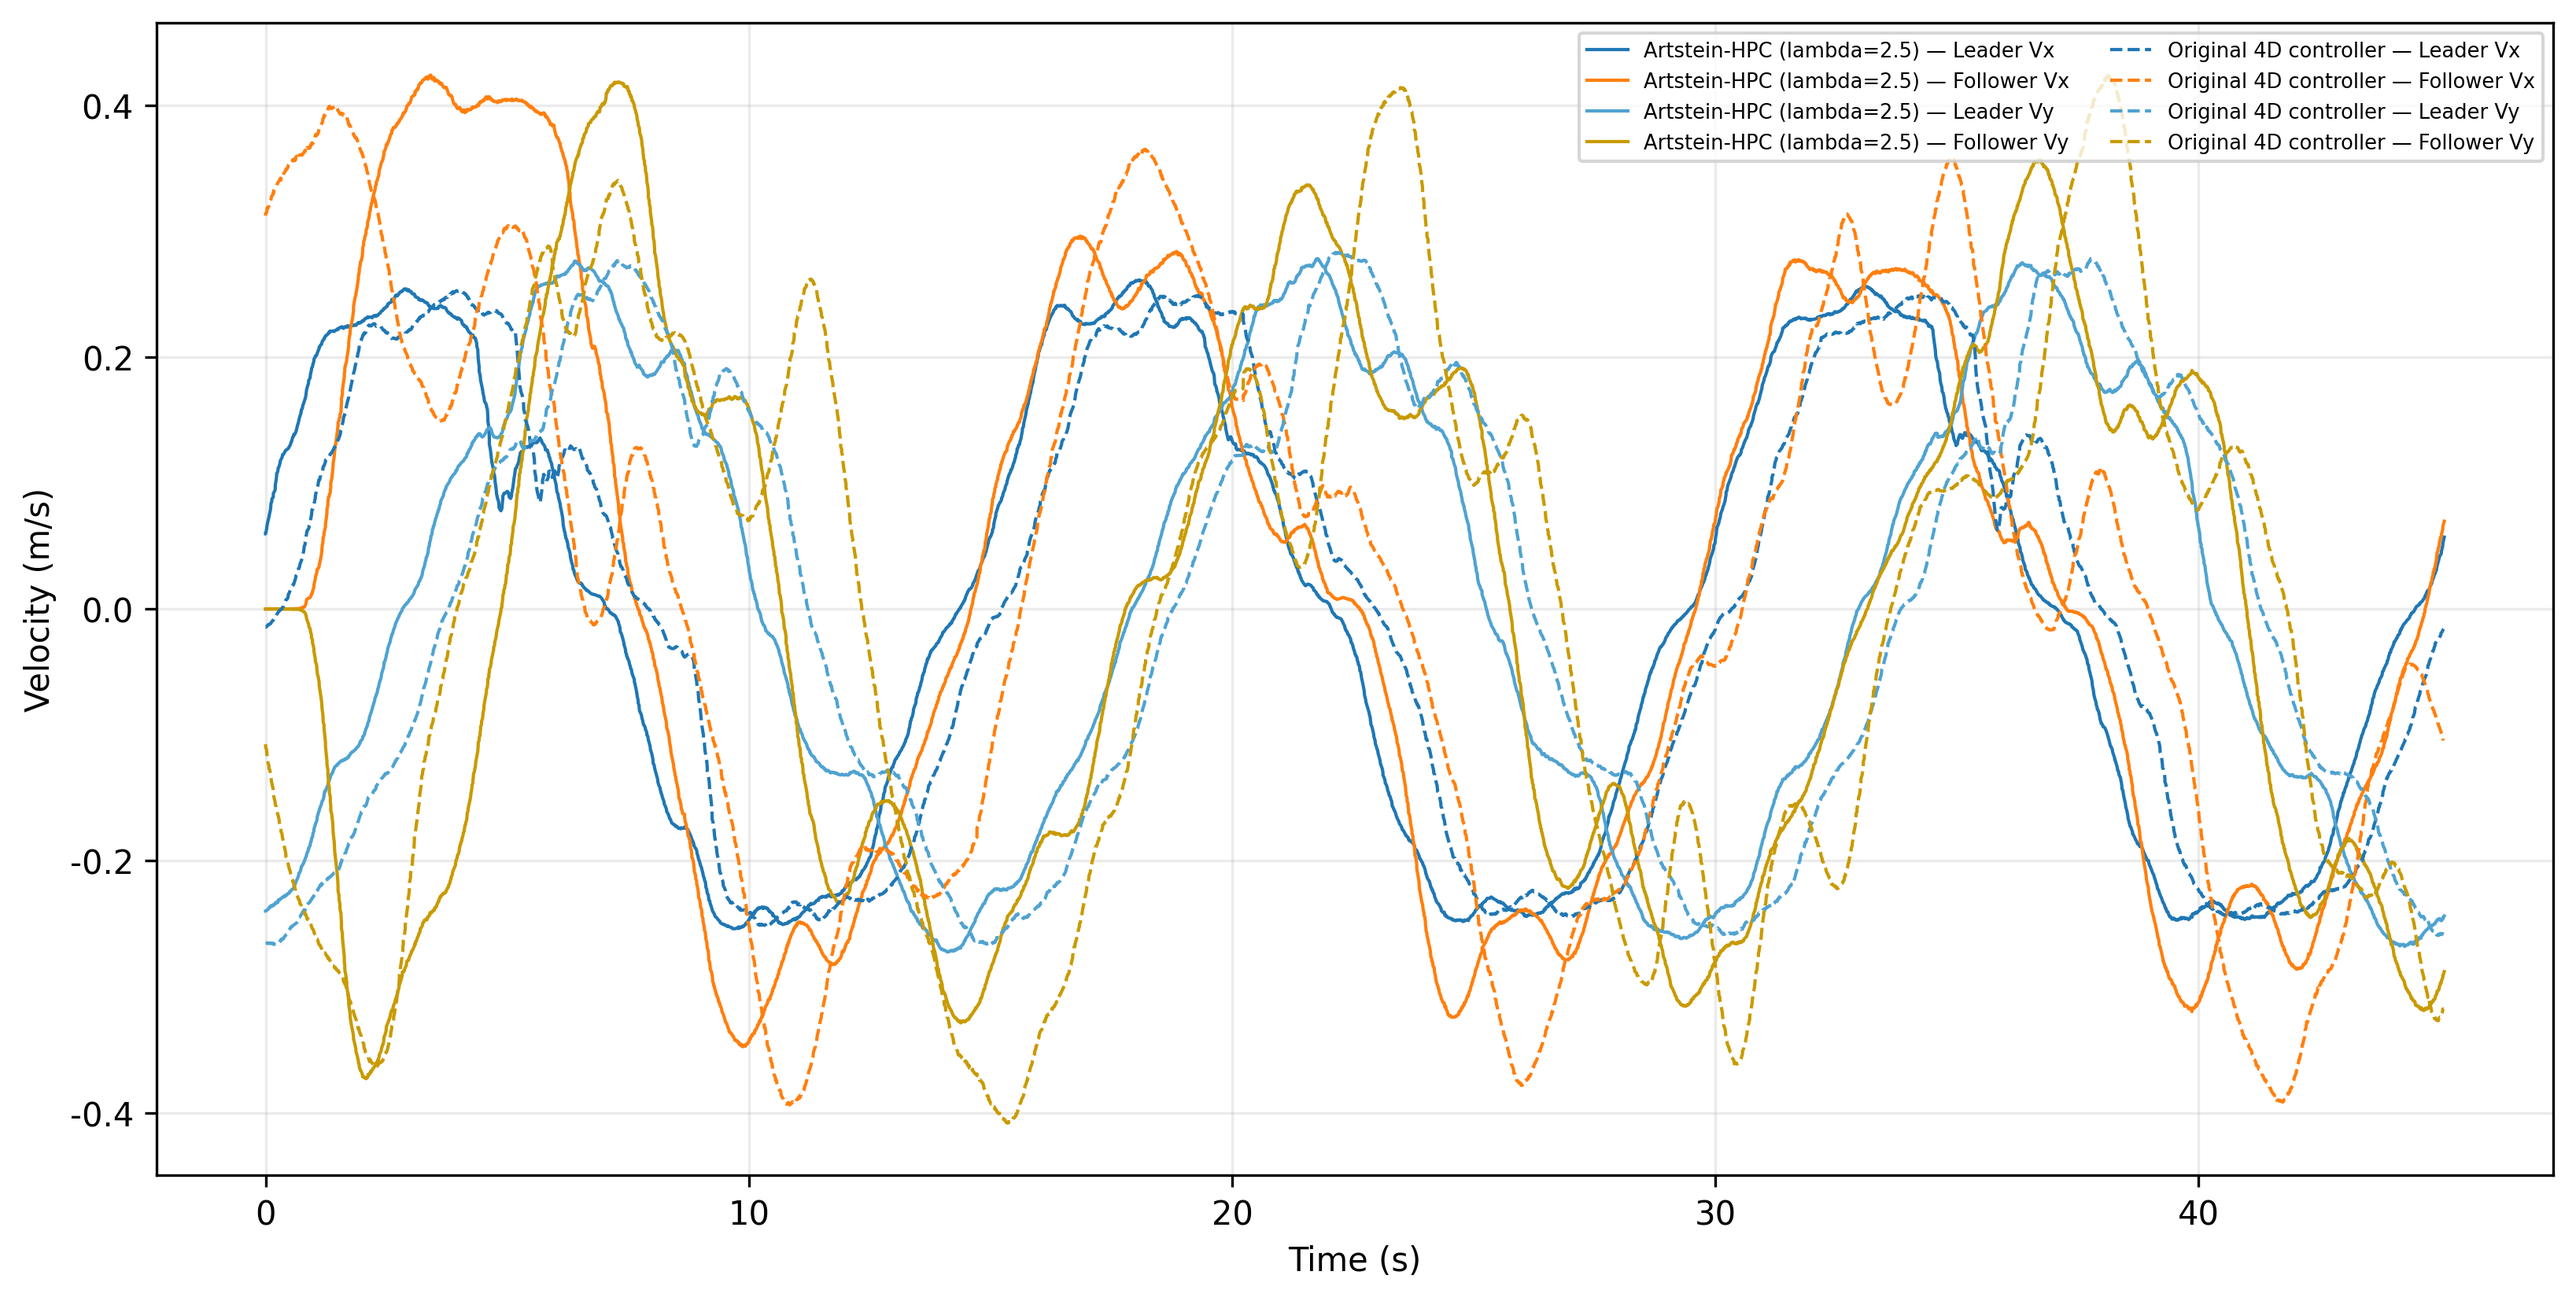
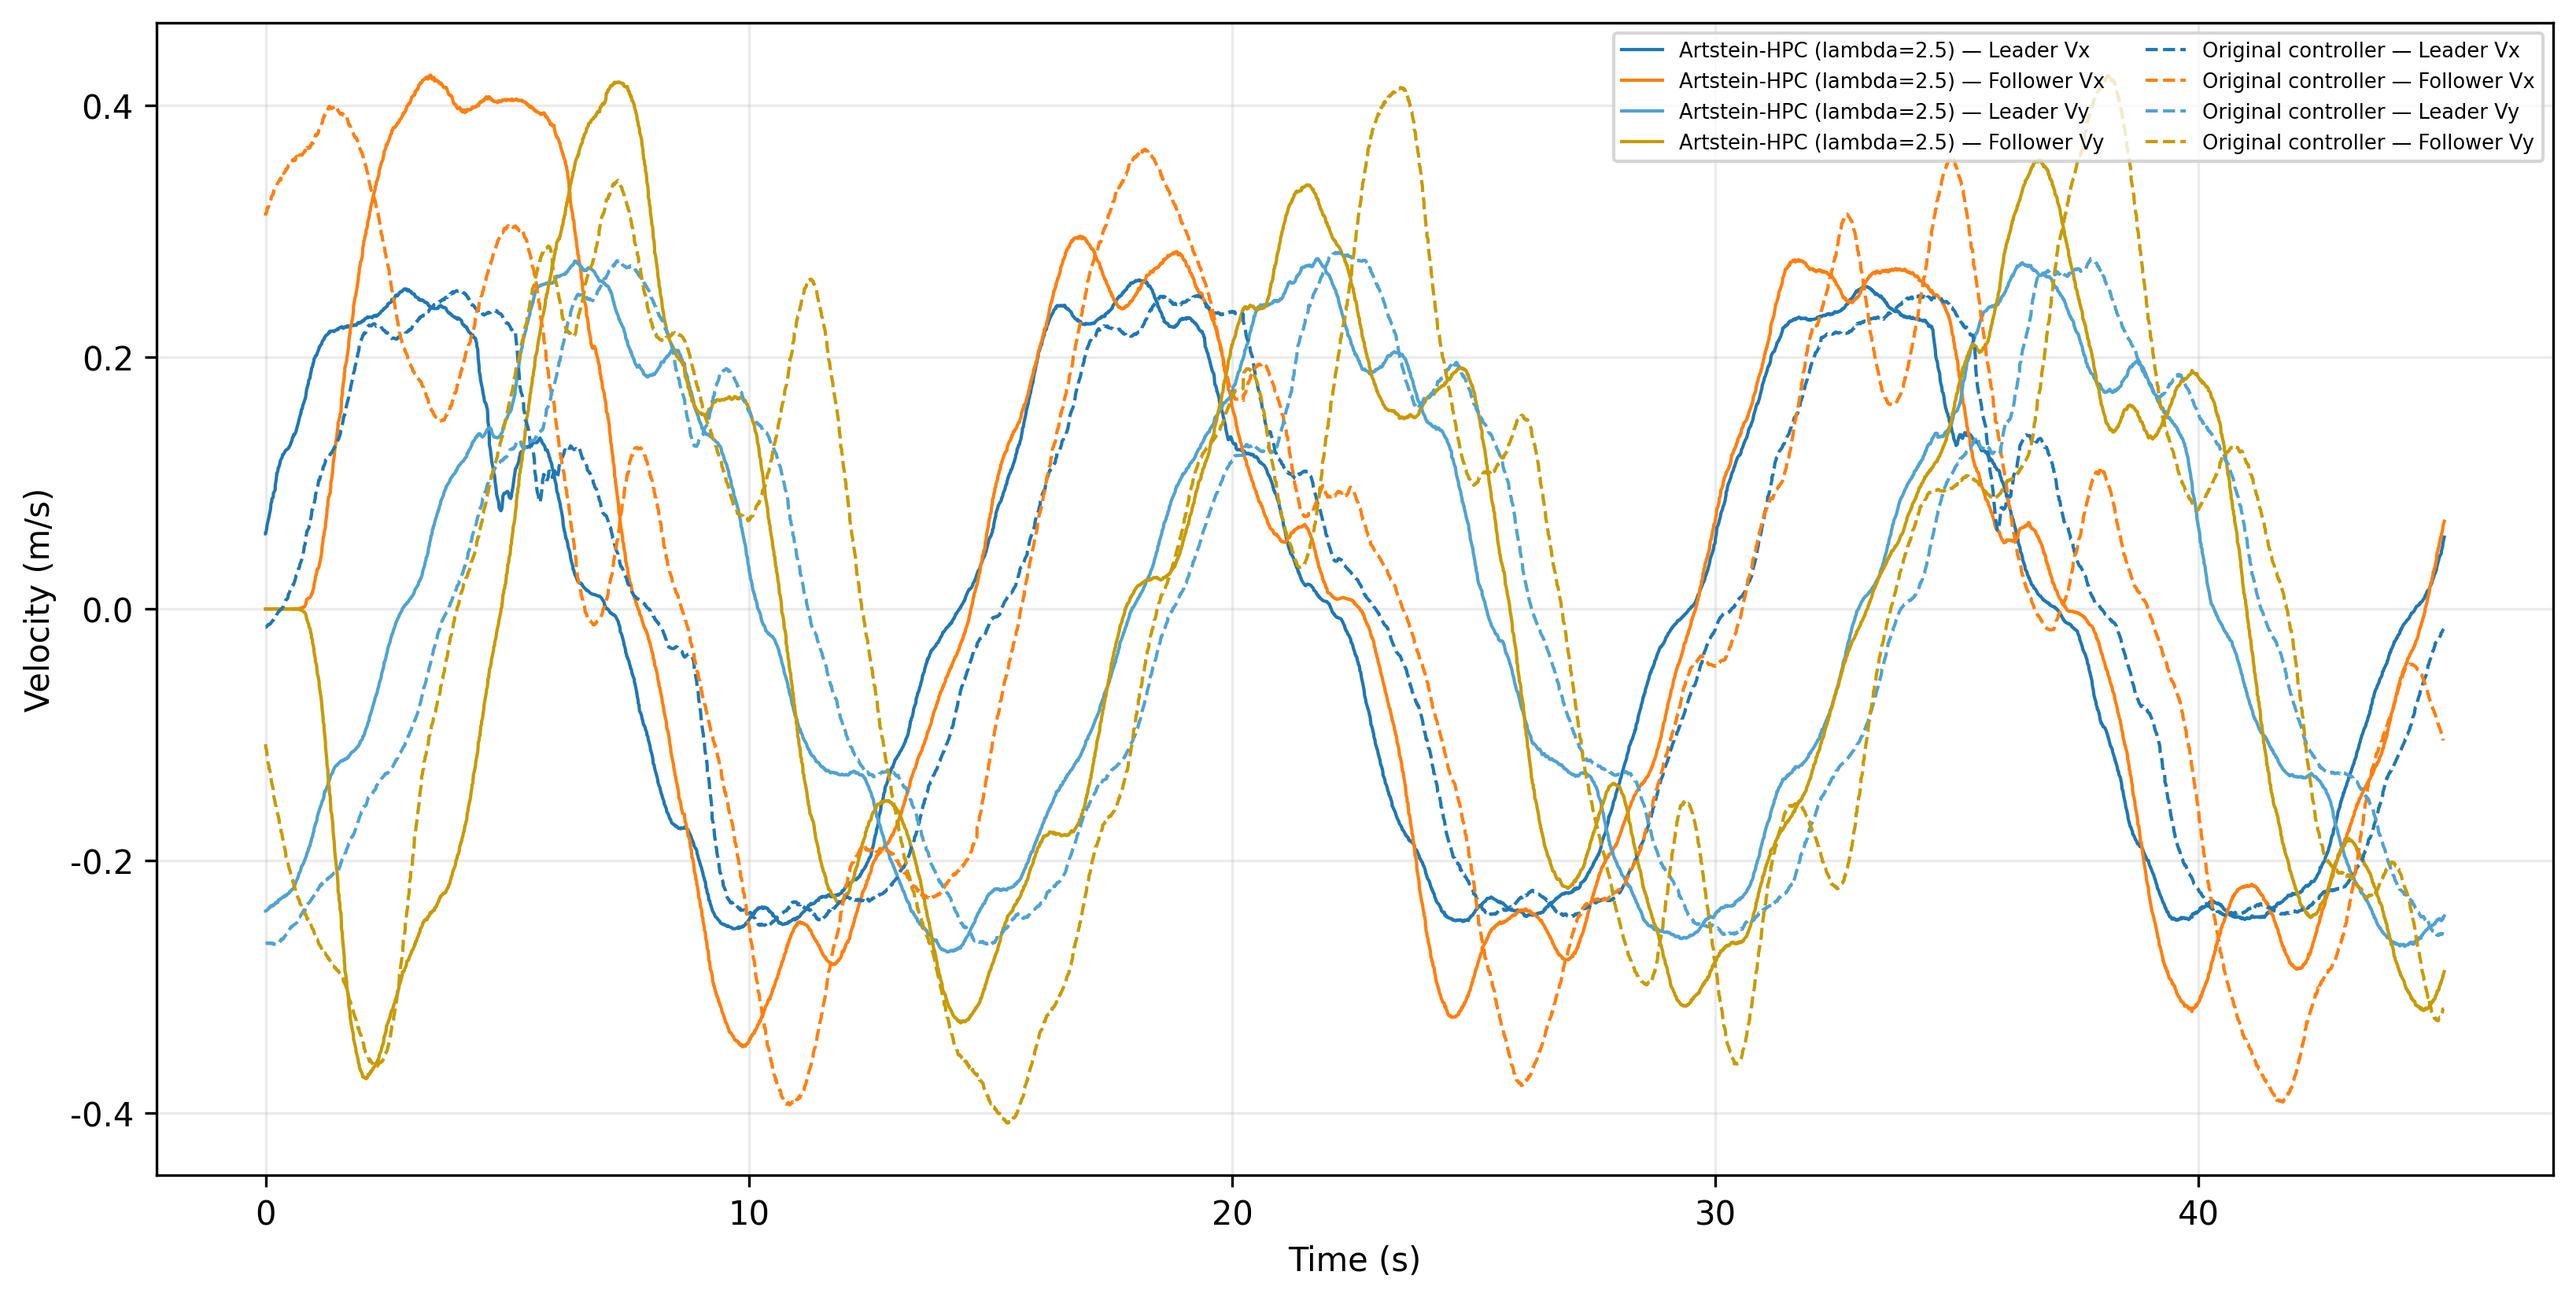
统一实验三控制器术语表述

Changed region(s): [[0.6231, 0.0308, 0.81, 0.1233], [0.8412, 0.0308, 0.9035, 0.1233]]

diff --git a/homo_multirobot_formation_control/scripts/build_real_tracking_deliverables.py b/homo_multirobot_formation_control/scripts/build_real_tracking_deliverables.py
@@ -327,7 +327,7 @@ def _load_metric_rows(input_dir):
 
 
 def append_artstein_original_4d_comparison(input_dir, word_path):
-    """Append the requested Artstein 4D vs original 4D experiment to an existing Word report."""
+    """Append the requested Artstein-HPC vs original-controller experiment."""
     input_dir = Path(input_dir)
     word_path = Path(word_path)
     metrics = _load_metric_rows(input_dir)
@@ -336,9 +336,10 @@ def append_artstein_original_4d_comparison(input_dir, word_path):
     if missing:
         raise ValueError("缺少实验三指标：" + ", ".join(missing))
     document = Document(word_path)
-    heading_text = "7. 实验三：Artstein 4D 与原始4D控制器实物对比"
+    heading_text = "7. 实验三：Artstein-HPC 与原始控制器实物对比"
+    legacy_headings = (heading_text, "7. 实验三：Artstein 4D 与原始4D控制器实物对比")
     for paragraph in document.paragraphs:
-        if paragraph.text == heading_text:
+        if paragraph.text in legacy_headings:
             body = paragraph._p.getparent()
             start = list(body).index(paragraph._p)
             for element in list(body)[start:]:
@@ -349,15 +350,15 @@ def append_artstein_original_4d_comparison(input_dir, word_path):
     add_heading(document, heading_text, 1)
     add_body_paragraph(
         document,
-        "本实验比较采用 Artstein 输入时滞补偿与 Follower 状态前向预测的 4D 控制器，"
-        "以及未使用 Artstein 时滞补偿的原始4D控制器。两组记录均来自动捕实物实验，"
+        "本实验比较采用 Artstein 输入时滞补偿与 Follower 状态前向预测的 Artstein-HPC，"
+        "以及未使用 Artstein 时滞补偿的原始控制器。两组记录均来自动捕实物实验，"
         "Leader 平均速度分别约为 0.252 m/s 和 0.250 m/s。",
     )
     images = (
-        ("artstein_original_4d_trajectory.png", "图 11　Artstein 4D 与原始4D控制器轨迹对比"),
-        ("artstein_original_4d_velocity_components.png", "图 12　Artstein 4D 与原始4D控制器 Vx/Vy 速度对比"),
-        ("artstein_original_4d_x_position.png", "图 13　Artstein 4D 与原始4D控制器 X 坐标对比"),
-        ("artstein_original_4d_y_position.png", "图 14　Artstein 4D 与原始4D控制器 Y 坐标对比"),
+        ("artstein_original_4d_trajectory.png", "图 11　Artstein-HPC 与原始控制器轨迹对比"),
+        ("artstein_original_4d_velocity_components.png", "图 12　Artstein-HPC 与原始控制器 Vx/Vy 速度对比"),
+        ("artstein_original_4d_x_position.png", "图 13　Artstein-HPC 与原始控制器 X 坐标对比"),
+        ("artstein_original_4d_y_position.png", "图 14　Artstein-HPC 与原始控制器 Y 坐标对比"),
     )
     for filename, caption in images:
         path = input_dir / "assets" / filename
@@ -365,8 +366,8 @@ def append_artstein_original_4d_comparison(input_dir, word_path):
             raise FileNotFoundError(path)
         add_image(document, path, caption)
     labels = {
-        "hpc_lpc_reference": "Artstein 4D（Artstein时滞补偿）",
-        "original_4d_reference": "原始4D控制器（未进行Artstein时滞补偿）",
+        "hpc_lpc_reference": "Artstein-HPC（Artstein时滞补偿）",
+        "original_4d_reference": "原始控制器（未进行Artstein时滞补偿）",
     }
     rows = []
     for experiment_id in required:
@@ -384,7 +385,7 @@ def append_artstein_original_4d_comparison(input_dir, word_path):
         "工况", "初始车间距 (m)", "末 10 s 平均距离偏差 (m)", "末 10 s 平均距离误差 (m)",
         "末 10 s 距离误差标准差 (m)", "末 10 s 最大距离误差 (m)",
         "末 10 s 相对速度误差 (m/s)"), rows)
-    add_caption(document, "表 4　Artstein 4D 与原始4D控制器的实物跟踪指标对比")
+    add_caption(document, "表 4　Artstein-HPC 与原始控制器的实物跟踪指标对比")
     artstein_initial = float(metrics["hpc_lpc_reference"]["initial_distance_m"])
     original_initial = float(metrics["original_4d_reference"]["initial_distance_m"])
     add_body_paragraph(
@@ -392,7 +393,7 @@ def append_artstein_original_4d_comparison(input_dir, word_path):
         "由表 4 可见，两组记录的初始车间距分别为 "
         f"{artstein_initial:.4f} m 和 {original_initial:.4f} m，初始误差并不相同，"
         "两组记录的初始车间距不同，故全程平均距离误差和 RMS 距离误差会受到起始阶段误差大小的显著影响，"
-        "不宜作为两类控制器性能优劣的主要依据。以末 10 s 指标观察，Artstein 4D 组的距离保持误差、"
+        "不宜作为两类控制器性能优劣的主要依据。以末 10 s 指标观察，Artstein-HPC 组的距离保持误差、"
         "波动幅度和相对速度误差均更小，说明在进入后段跟踪后，其状态预测与时滞补偿对编队稳定性具有积极作用。",
     )
     document.save(word_path)

diff --git a/homo_multirobot_formation_control/test/test_build_real_tracking_deliverables.py b/homo_multirobot_formation_control/test/test_build_real_tracking_deliverables.py
@@ -87,10 +87,10 @@ class MarkdownWordReportTest(unittest.TestCase):
                 [paragraph.text for paragraph in document.paragraphs]
                 + [cell.text for table in document.tables for row in table.rows for cell in row.cells]
             )
-            self.assertIn("7. 实验三：Artstein 4D 与原始4D控制器实物对比", text)
-            self.assertIn("原始4D控制器（未进行Artstein时滞补偿）", text)
+            self.assertIn("7. 实验三：Artstein-HPC 与原始控制器实物对比", text)
+            self.assertIn("原始控制器（未进行Artstein时滞补偿）", text)
             self.assertIn("0.0722", text)
-            self.assertEqual(text.count("7. 实验三：Artstein 4D 与原始4D控制器实物对比"), 1)
+            self.assertEqual(text.count("7. 实验三：Artstein-HPC 与原始控制器实物对比"), 1)
             self.assertIn("初始车间距分别为 1.9112 m 和 1.5333 m", text)
             self.assertIn("不宜作为两类控制器性能优劣的主要依据", text)
             self.assertIn("状态预测与时滞补偿对编队稳定性具有积极作用", text)

diff --git a/homo_multirobot_formation_control/test/test_analyze_real_tracking_report.py b/homo_multirobot_formation_control/test/test_analyze_real_tracking_report.py
@@ -87,6 +87,13 @@ def test_hpc_stage_plot_label_exposes_the_common_lambda_setting():
     }, chinese_labels=False) == 'Artstein-HPC (lambda=2.5)'
 
 
+def test_original_controller_plot_label_omits_the_4d_implementation_name():
+    assert module.report_label({
+        'id': 'original_4d_reference',
+        'controller_family': 'original_4d',
+    }, chinese_labels=False) == 'Original controller'
+
+
 def test_generate_report_assets_writes_the_five_high_resolution_pngs(tmp_path, capsys):
     manifest = (PACKAGE_DIR / "analysis" / "real_tracking_report" /
                 "experiment_manifest.yaml")

diff --git a/homo_multirobot_formation_control/scripts/analyze_real_tracking_report.py b/homo_multirobot_formation_control/scripts/analyze_real_tracking_report.py
@@ -80,7 +80,7 @@ def report_label(experiment, chinese_labels):
     if experiment["id"] == "hpc_lpc_reference":
         return "Artstein-HPC (lambda={:.1f})".format(experiment["initial_min_lambda"])
     if experiment["controller_family"] == "original_4d":
-        return "Original 4D controller"
+        return "Original controller"
     state = "on" if experiment.get("leader_command_feedforward") else "off"
     return f"Artstein-HPC (Leader command feedforward: {state})"
 
